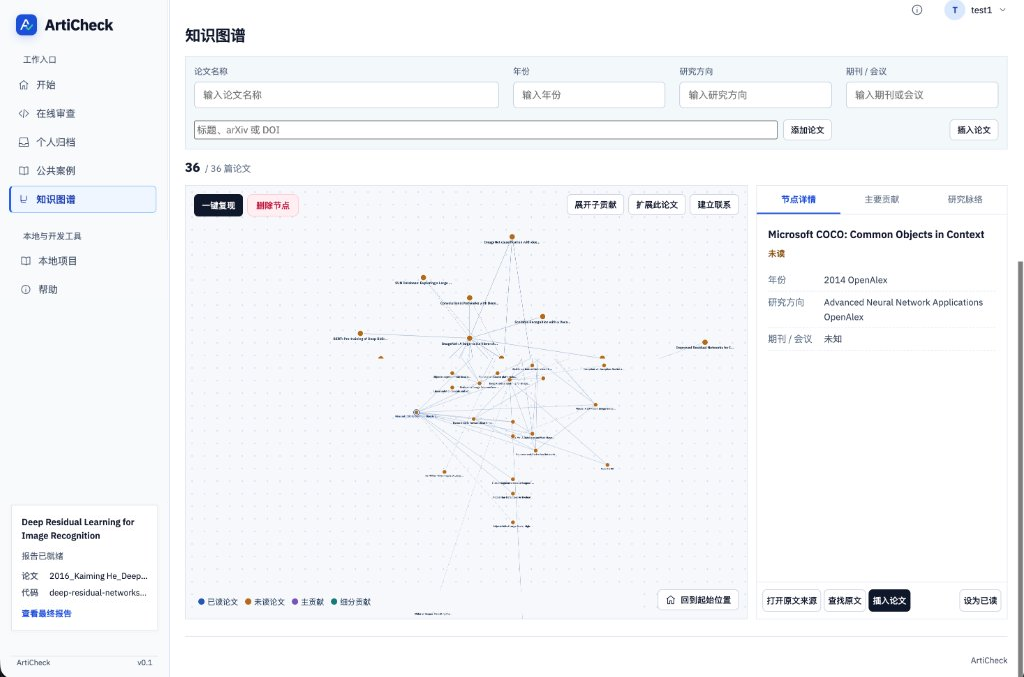
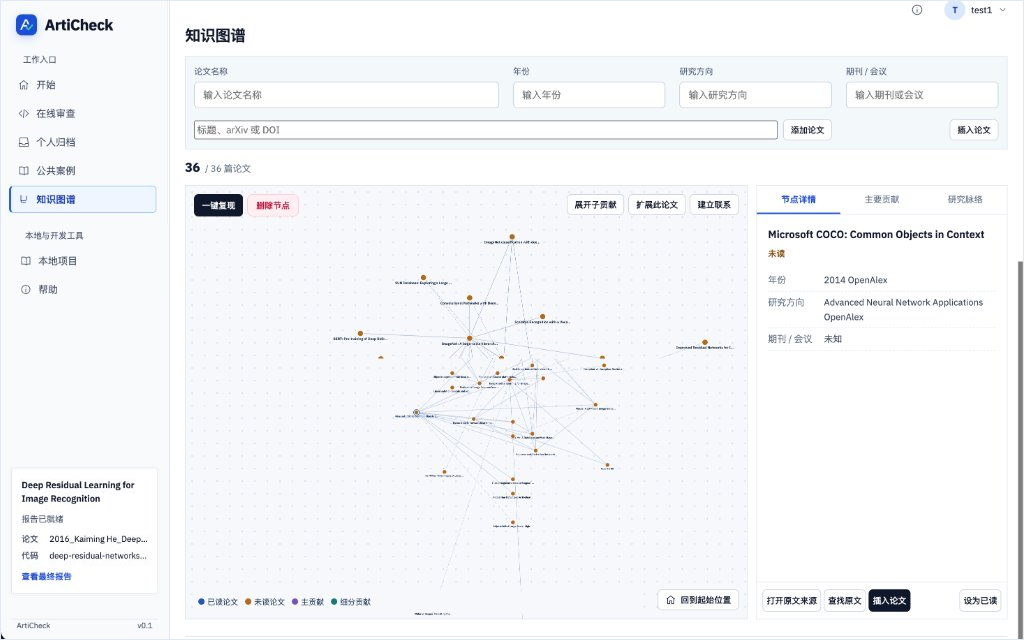
Standardize all README UI showcase screenshots to uniform 1024x640 (16:10) framing

diff --git a/README.md b/README.md
@@ -191,7 +191,7 @@ flowchart LR
 <td width="50%" valign="top">
 <strong>复现他人报告 · GPU 实测与七步时间轴</strong><br>
 输出复现程度、阶段完成度、指标比对率、创新点逐字依据、分歧与差异清单，并记录完整 7 步审查流程与折叠附录。<br><br>
-<a href="docs/assets/ui-report-reproduce.png"><img src="docs/assets/ui-report-reproduce.png" alt="复现他人最终报告：部分复现结论、GPU 16秒执行、创新点核验与七步审查时间轴" height="360"></a>
+<a href="docs/assets/ui-report-reproduce.png"><img src="docs/assets/ui-report-reproduce.png" alt="复现他人最终报告：部分复现结论、GPU 16秒执行、创新点核验与七步审查时间轴" width="100%"></a>
 </td>
 </tr>
 </table>
